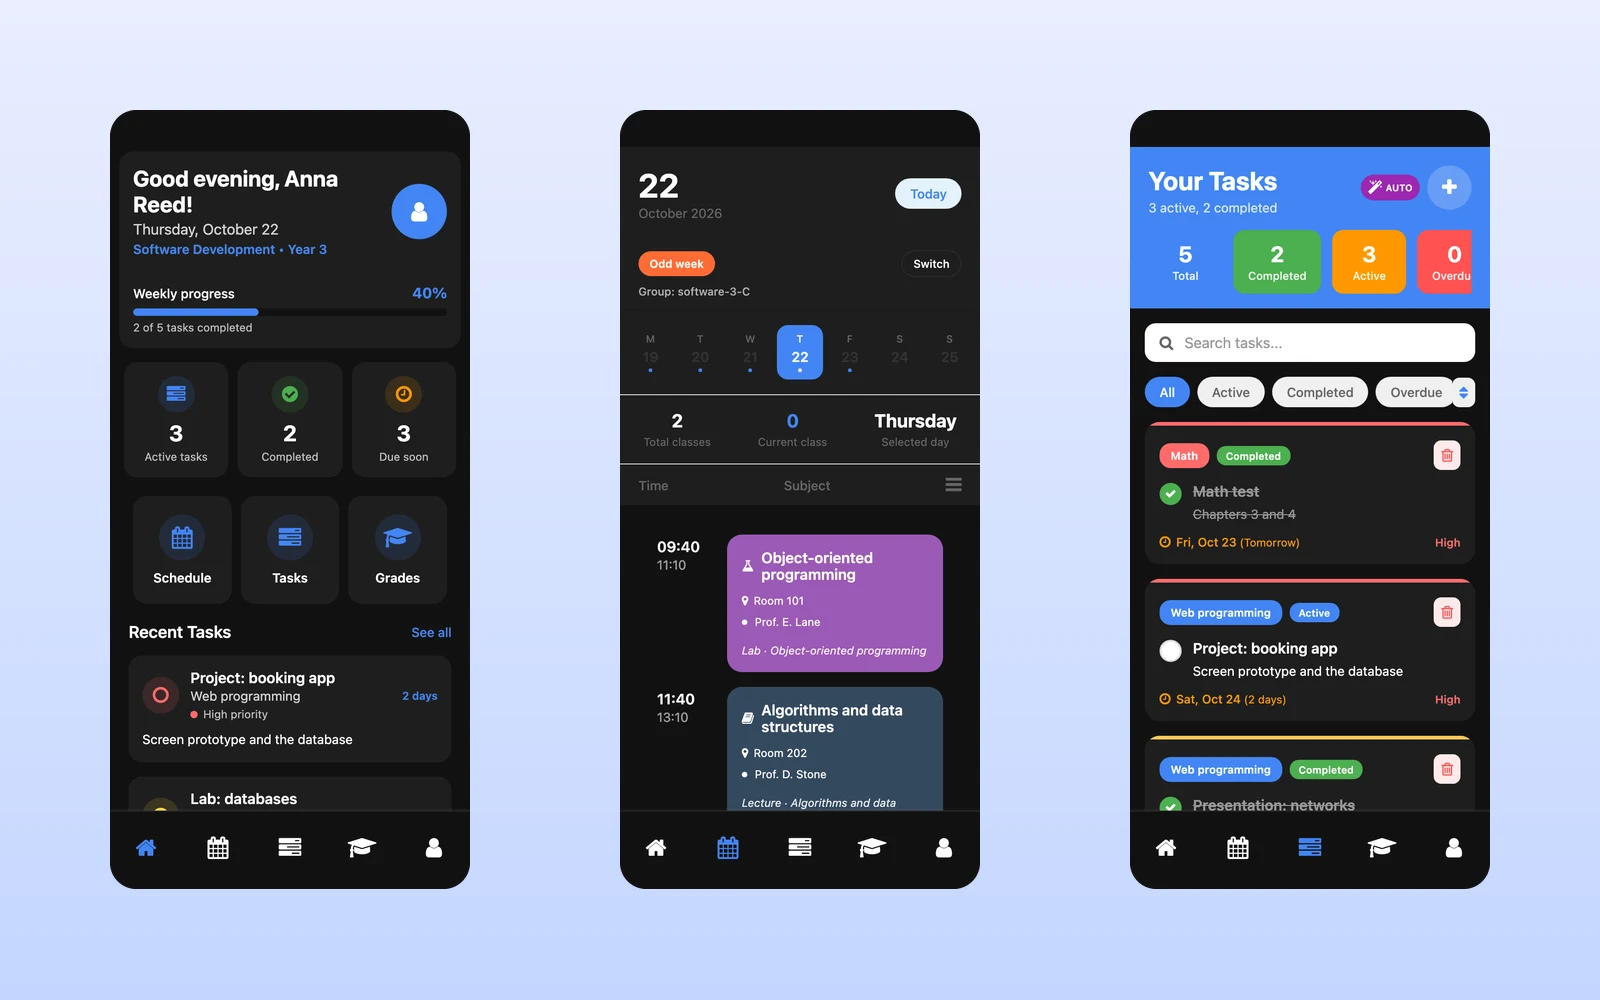
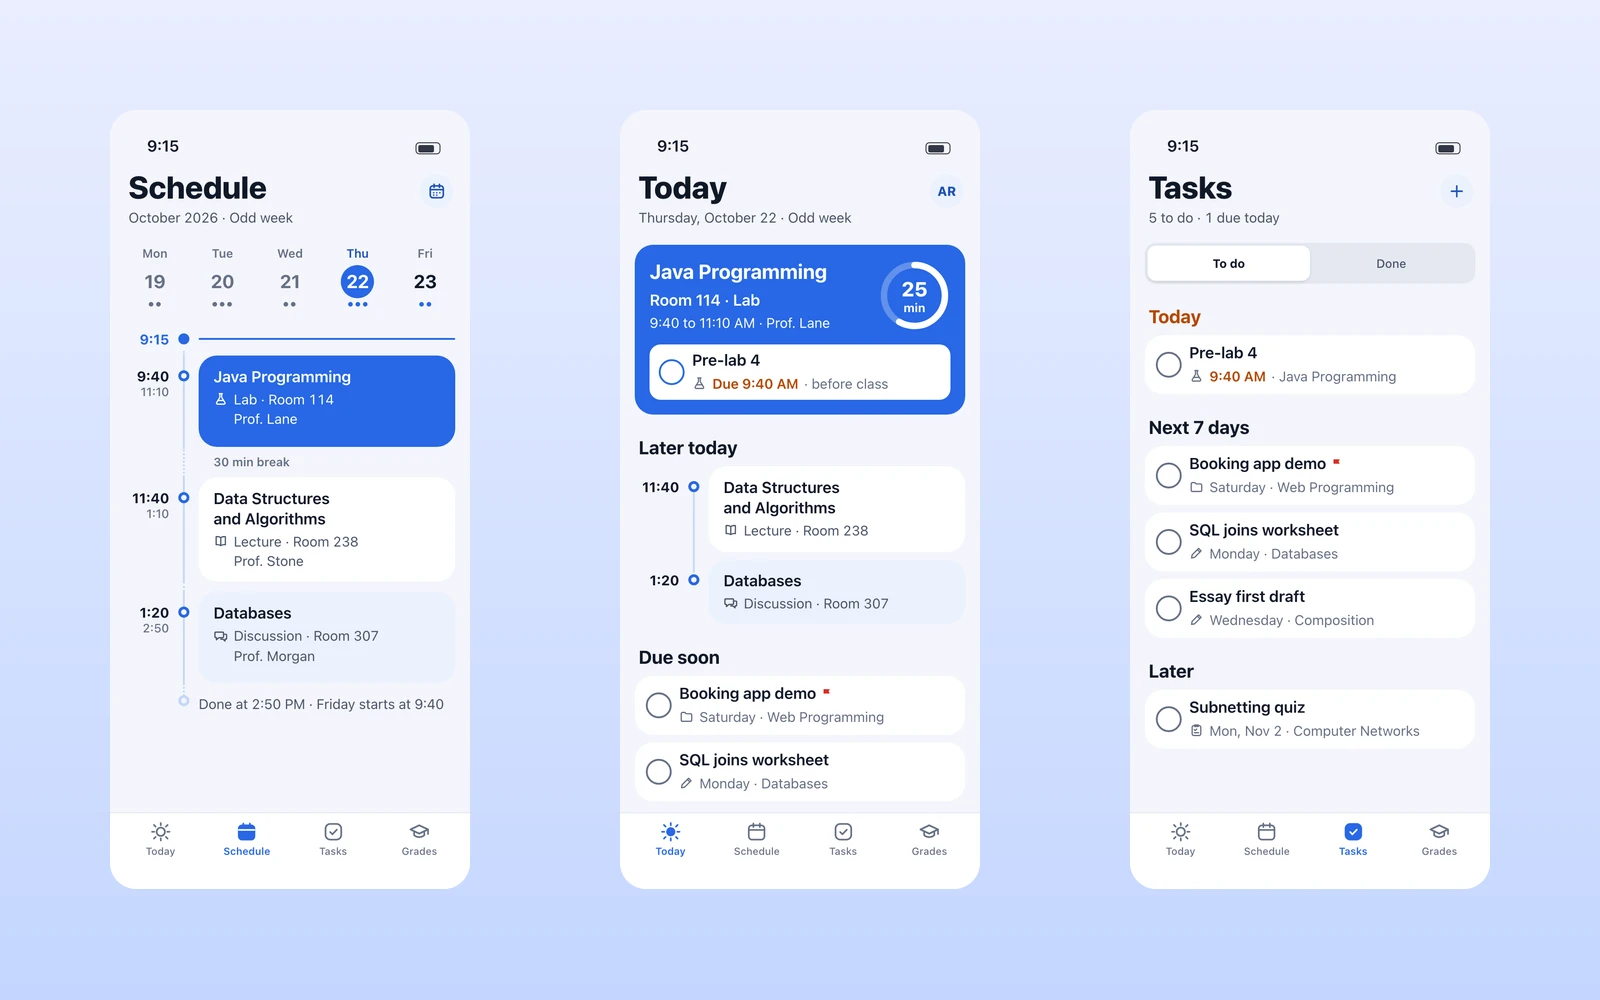
College app redesign concept on Work, labeled as a concept

diff --git a/src/data/projects.ts b/src/data/projects.ts
@@ -87,6 +87,10 @@ export type Project = {
   look: Look;
   /** Null until the case study is written: no page is built for it and cards do not link. */
   caseStudy: CaseStudy | null;
+  /** A short tag after the kind wherever the project is listed on Work, such as 'Redesign concept'. */
+  label: string | null;
+  /** One line under the summary when the screenshot is not the live product as it is today. */
+  screensNote: string | null;
   /** The one thing worth knowing about it, in a few words, shown in the teal box on its Work tile. True, never a result. */
   callout: string | null;
   /** The tint of its Work tile. */
@@ -127,7 +131,7 @@ const toClientLine = (services: Service[]): string => {
 };
 
 export type Seed = Pick<Project, 'slug' | 'name' | 'services' | 'kind'> &
-  Partial<Pick<Project, 'summary' | 'plain' | 'site' | 'image' | 'own' | 'client' | 'caseStudy' | 'callout' | 'tint' | 'frame'>>;
+  Partial<Pick<Project, 'summary' | 'plain' | 'site' | 'image' | 'own' | 'client' | 'caseStudy' | 'callout' | 'tint' | 'frame' | 'label' | 'screensNote'>>;
 
 // Real work only: every project here is shown on Home, Work and in llms.txt; clients (not `own`)
 // also on Clients. Add `summary` and `caseStudy` (shape: CaseStudy above) as they are written;
@@ -181,8 +185,9 @@ const seeds: Seed[] = [
       'An online store for car parts and performance accessories: shop, product pages, cart, checkout and customer account. React and TypeScript, with automated tests, shipped in Docker.',
     image: { src: carPartsShot, alt: 'The car parts store home page: "Premium car parts for your vehicle" with a wheel, a brake disc and a search by year, make and model' },
   },
-  // From the owner's app archive (2026-10-22). Shown without the college's name; the screens are
-  // the real app run with a made-up student, tasks and teachers.
+  // From the owner's app archive (2026-10-22). Shown without the college's name. The screens are our
+  // redesign concept for it (direction C, chosen 2026-10-22, .temp/college-app-v2/c.html) with a
+  // made-up student, so the project says so; the live app still has its original design.
   {
     slug: 'college-student-app',
     callout: 'Classes, tasks and grades',
@@ -190,13 +195,15 @@ const seeds: Seed[] = [
     frame: threePhones,
     kind: 'Mobile app',
     plain: "Classes, tasks and grades for a college's students, on their phones.",
+    label: 'Redesign concept',
+    screensNote: 'These screens are a redesign concept. The live app still uses its original design.',
     name: 'College student app',
     services: ['Mobile & Desktop Apps'],
     summary:
-      "An iOS and Android app for a college's students: the day's classes and the week's schedule, tasks with priorities and deadlines, grades from the college's own system, and a profile, in light and dark mode. React Native, Expo and Supabase.",
+      "An iOS and Android app for students at one college: today's classes, the weekly schedule, tasks with priorities and deadlines, and grades from the college's system, in light and dark mode. Built with React Native, Expo and Supabase.",
     image: {
       src: collegeAppShot,
-      alt: "Three screens of the student app with a demo student: the home screen with the week's progress, the day's classes and the task list",
+      alt: 'College student app, redesign concept: the Schedule, Today and Tasks screens with a demo student',
     },
   },
   {
@@ -252,6 +259,8 @@ export const projects: Project[] = seeds.map((seed, i) => ({
   look: looks[i % looks.length]!,
   caseStudy: seed.caseStudy ?? null,
   callout: seed.callout ?? null,
+  label: seed.label ?? null,
+  screensNote: seed.screensNote ?? null,
   tint: seed.tint ?? (['cyan', 'blue', 'violet'] as const)[i % 3]!,
   frame: seed.frame ?? { kind: 'browser' },
 }));
